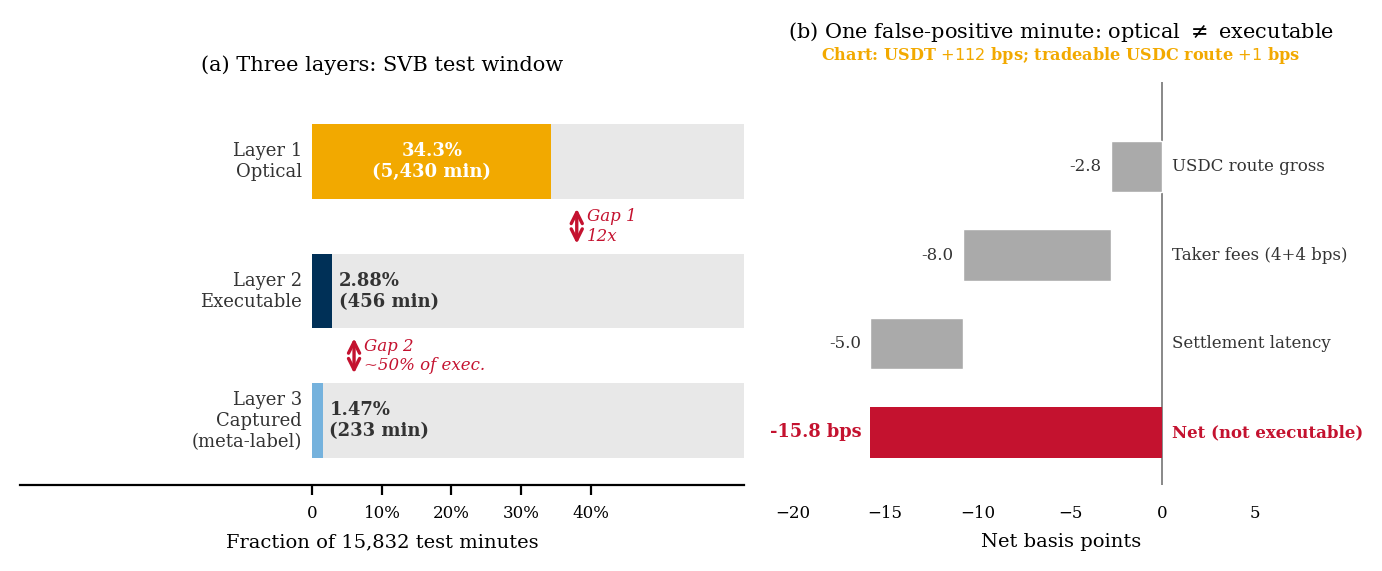
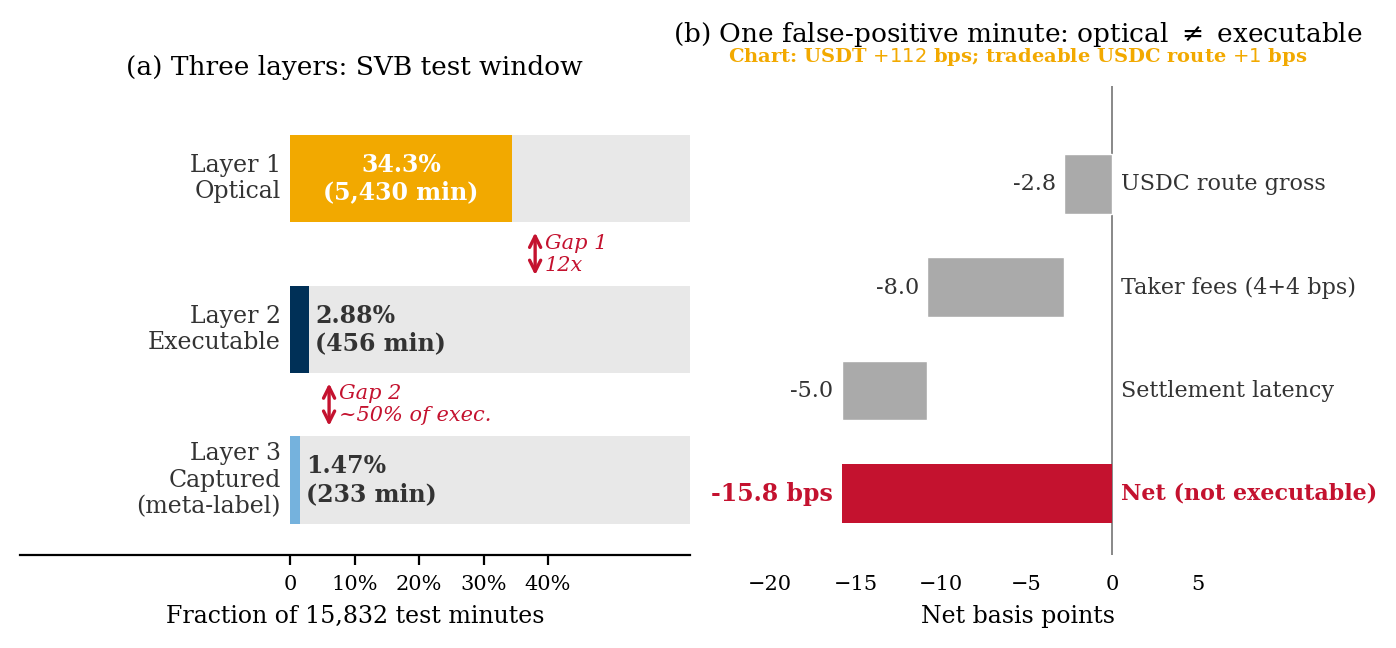
Reorder abstract + enlarge framework figure for legibility
Abstract: lead with the benchmark release and the main positive result
(cross-mechanism transfer recovers +82.5 bps) before the failure
analysis; move the synthetic-scope caveat to the end. Matches the
front-load-the-win convention of accepted ICAIF papers (JaxMARL-HFT).

Figure 1 (framework): bump fonts ~30% (5.8-7.5pt -> 7-9.5pt) and add
vertical room (height 2.8->3.2in) so the three-layer panel and cost-stack
waterfall read clearly at print size. 8pp preserved.

diff --git a/paper/main.tex b/paper/main.tex
@@ -57,38 +57,36 @@
 \begin{abstract}\sloppy
 On 10 March 2023, Silicon Valley Bank's seizure forced USDC off its
 dollar peg. Price charts showed $34.3\%$ of one-minute windows as
-profitable stablecoin arbitrage.  Fewer than $3$ in $100$ ($2.88\%$)
+profitable stablecoin arbitrage; fewer than $3$ in $100$ ($2.88\%$)
 survived VWAP book-walking, fees, and settlement, a \textbf{$12\times$
 gap} between visible and executable profit (proxy-bounded to $12$--$14\times$
 under a conservative $20\%$ depth haircut).  A model scoring well on
 price labels can still lose money on every trade.
-We study when a learned trading model transfers across financial crises,
-using stablecoin depegs as the testbed.
-The central obstacle is distributional. A model trained on calm or
-single-regime data cannot identify the executable minority in a stress
-regime it has never seen, and every calm-trained family we test (tabular
-classifiers, sequence models, reinforcement learning, and changepoint
-detectors) fails economically despite high AUROC. The highest-AUROC model
-(GRU, AUROC~0.80) is simultaneously the largest money-loser ($-239\bps$),
-a direct quantification of the AUROC--P\&L inversion under class imbalance.
-Our main result is that \emph{cross-mechanism transfer} solves this.
+We release \textbf{Stablecoin StressBench}, an 18-event catalogue across
+seven mechanism classes with per-minute VWAP (volume-weighted average
+price) book-walking labels, route provenance, and a hindsight oracle
+ceiling (CC-BY~4.0), and use it to study when a learned trading model
+transfers across financial crises.
+Our main result is that \emph{cross-mechanism transfer} works.
 A meta-labeling classifier trained on an algorithmic collapse
 (Terra/LUNA) and applied unchanged to a bank-reserve shock (USDC/SVB)
-recovers $+82.5\bps$ (95\% CI $[79.5,\,87.7]\bps$, 51.0\% of a hindsight oracle), apparently
-because depth withdrawal and spread widening behave alike regardless of the trigger, since the order
-book responds to uncertainty rather than its cause.
-\emph{Scope}. This real transfer is demonstrated for a single
-source$\,\to\,$destination pair (Terra/LUNA$\,\to\,$Tier-A USDC/SVB). The other
-multi-mechanism conditions are synthetic, so a second execution-grade event is the
-primary open validation requirement (see Limitations).
+recovers $+82.5\bps$ (95\% CI $[79.5,\,87.7]\bps$, 51.0\% of the oracle),
+because depth withdrawal and spread widening behave alike regardless of the
+trigger: the order book responds to uncertainty rather than its cause.
+The obstacle this overcomes is distributional. Every calm-trained family
+we test (tabular classifiers, sequence models, reinforcement learning, and
+changepoint detectors) fails economically despite high AUROC; the
+highest-AUROC model (GRU, AUROC~0.80) is simultaneously the largest
+money-loser ($-239\bps$), a direct quantification of the AUROC--P\&L
+inversion under class imbalance.
 We further isolate \emph{supervision format} as the binding constraint.
 At identical positive-label density, explicit binary labels earn
 $+82.5\bps$ while reward optimisation (PPO-GRU) earns $-29.2\bps$
 (5-seed mean $-45.9\pm5.2\bps$, shaped-reward variant $-35.6\bps$, confirming the gap is not a seed artefact).
-To support these findings we release Stablecoin StressBench, an 18-event
-catalogue across seven mechanism classes, per-minute VWAP
-(volume-weighted average price) book-walking labels with route
-provenance, and a hindsight oracle ceiling, under CC-BY~4.0.
+\emph{Scope}. This real transfer is demonstrated for a single
+source$\,\to\,$destination pair (Terra/LUNA$\,\to\,$Tier-A USDC/SVB). The other
+multi-mechanism conditions are synthetic, so a second execution-grade event is the
+primary open validation requirement (see Limitations).
 \end{abstract}
 
 \keywords{transfer learning, meta-labeling, reinforcement learning,

diff --git a/scripts/make_framework_figure.py b/scripts/make_framework_figure.py
@@ -49,7 +49,7 @@ ROWS = [
     ("Layer 3\nCaptured\n(meta-label)", META_FRAC, BLUE, "1.47%\n(233 min)"),
 ]
 
-fig, axes = plt.subplots(1, 2, figsize=(7.0, 2.8),
+fig, axes = plt.subplots(1, 2, figsize=(7.0, 3.2),
                          gridspec_kw={"width_ratios": [1.35, 1]})
 plt.subplots_adjust(wspace=0.06)
 
@@ -66,14 +66,14 @@ for i, (label, frac, colour, txt) in enumerate(ROWS):
     # filled fraction
     ax.barh(y, frac, height=bar_h, color=colour, left=0, zorder=2)
     # label on left
-    ax.text(-0.015, y, label, ha="right", va="center", fontsize=6.5,
+    ax.text(-0.015, y, label, ha="right", va="center", fontsize=8.5,
             color="#333333")
     # percentage inside bar or just outside
     x_txt = frac + 0.01 if frac < 0.15 else frac * 0.5
     ha_txt = "left"   if frac < 0.15 else "center"
     c_txt  = "#333333" if frac < 0.15 else "white"
     ax.text(x_txt, y, txt, ha=ha_txt, va="center",
-            fontsize=6.5, color=c_txt, fontweight="bold")
+            fontsize=8.5, color=c_txt, fontweight="bold")
 
 # Gap annotations
 def gap_arrow(ax, x, y_top, y_bot, label):
@@ -81,20 +81,20 @@ def gap_arrow(ax, x, y_top, y_bot, label):
                 xytext=(x, y_top - bar_h / 2 - 0.03),
                 arrowprops=dict(arrowstyle="<->", color=RED, lw=1.2))
     ax.text(x + 0.015, (y_top + y_bot) / 2, label,
-            ha="left", va="center", fontsize=6, color=RED, style="italic")
+            ha="left", va="center", fontsize=7.5, color=RED, style="italic")
 
 gap_arrow(ax, 0.38, y_positions[0], y_positions[1], "Gap 1\n12x")
 gap_arrow(ax, 0.06, y_positions[1], y_positions[2], "Gap 2\n~50% of exec.")
 
 ax.set_xlim(-0.42, 0.62)
 ax.set_ylim(-0.15, 2.65)
-ax.set_title("(a) Three layers: SVB test window", fontsize=7.5, pad=4)
+ax.set_title("(a) Three layers: SVB test window", fontsize=9.5, pad=4)
 ax.set_xticks([0, 0.1, 0.2, 0.3, 0.4])
-ax.set_xticklabels(["0", "10%", "20%", "30%", "40%"], fontsize=6)
+ax.set_xticklabels(["0", "10%", "20%", "30%", "40%"], fontsize=7.5)
 ax.set_yticks([])
 ax.tick_params(bottom=True)
 ax.spines["bottom"].set_visible(True)
-ax.set_xlabel("Fraction of 15,832 test minutes", fontsize=7)
+ax.set_xlabel("Fraction of 15,832 test minutes", fontsize=8.5)
 
 # ── Panel B: worked example as a cost-stack waterfall ─────────────────────────
 # One representative false-positive minute (Mar 11 2023). The chart shows a
@@ -117,23 +117,23 @@ for (label, delta), y in zip(steps, y_pos):
     ax2.barh(y, delta, height=bar_h_b, left=left, color=MGREY,
              edgecolor="white", linewidth=0.5, zorder=3)
     ax2.text(cum - 0.5, y, f"{delta:+.1f}", ha="right", va="center",
-             fontsize=6.0, color="#333333")
-    ax2.text(0.5, y, label, ha="left", va="center", fontsize=6.0,
+             fontsize=8.0, color="#333333")
+    ax2.text(0.5, y, label, ha="left", va="center", fontsize=8.0,
              color="#333333")
 
 net = cum  # -15.8
 ax2.barh(0, net, height=bar_h_b, left=0, color=RED, zorder=3)
 ax2.text(net - 0.5, 0, f"{net:+.1f} bps", ha="right", va="center",
-         fontsize=6.4, color=RED, fontweight="bold")
+         fontsize=8.5, color=RED, fontweight="bold")
 ax2.text(0.5, 0, "Net (not executable)", ha="left", va="center",
-         fontsize=6.0, color=RED, fontweight="bold")
+         fontsize=8.0, color=RED, fontweight="bold")
 
 ax2.axvline(0, color="#888888", lw=0.7, zorder=1)
 ax2.set_xlim(-20, 9)
 ax2.set_ylim(-0.6, 3.95)
 ax2.set_yticks([])
-ax2.set_xlabel("Net basis points", fontsize=7)
-ax2.tick_params(labelsize=6)
+ax2.set_xlabel("Net basis points", fontsize=8.5)
+ax2.tick_params(labelsize=7.5)
 for sp in ("top", "right", "left"):
     ax2.spines[sp].set_visible(False)
 
@@ -141,9 +141,9 @@ for sp in ("top", "right", "left"):
 ax2.text(0.5, 1.04,
          r"Chart: USDT $+112$ bps; tradeable USDC route $+1$ bps",
          transform=ax2.transAxes, ha="center", va="bottom",
-         fontsize=5.8, color=GOLD, fontweight="bold")
+         fontsize=7.0, color=GOLD, fontweight="bold")
 ax2.set_title(r"(b) One false-positive minute: optical $\neq$ executable",
-              fontsize=7.5, pad=16)
+              fontsize=9.5, pad=16)
 
 fig.tight_layout(pad=0.5)
 out = OUT / "figure_framework.png"